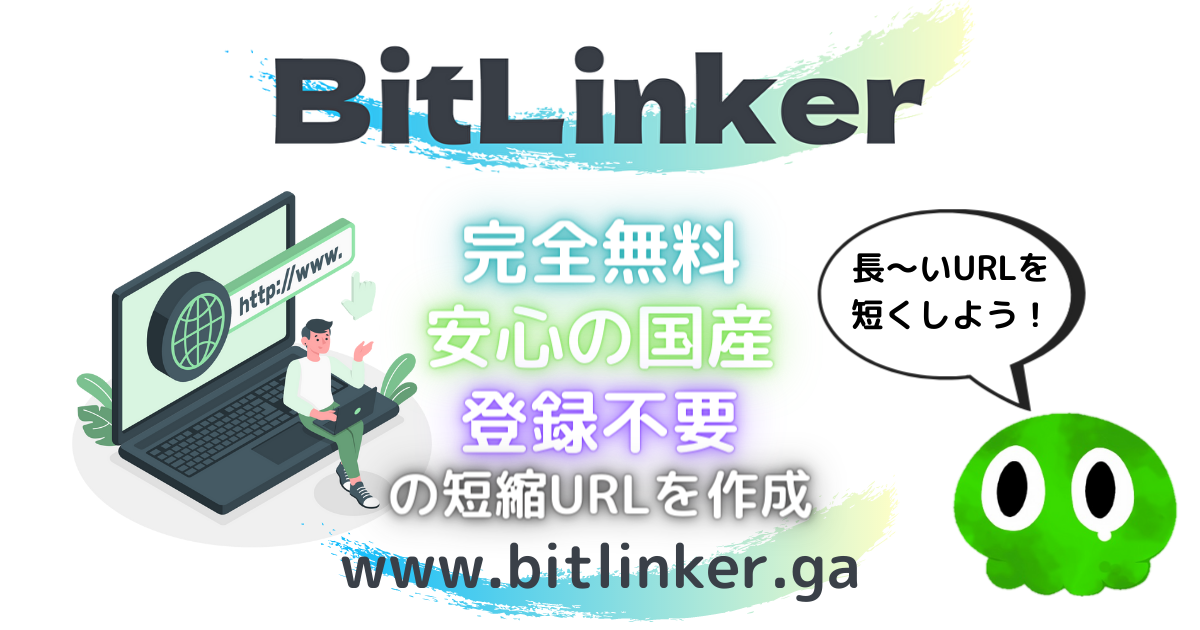
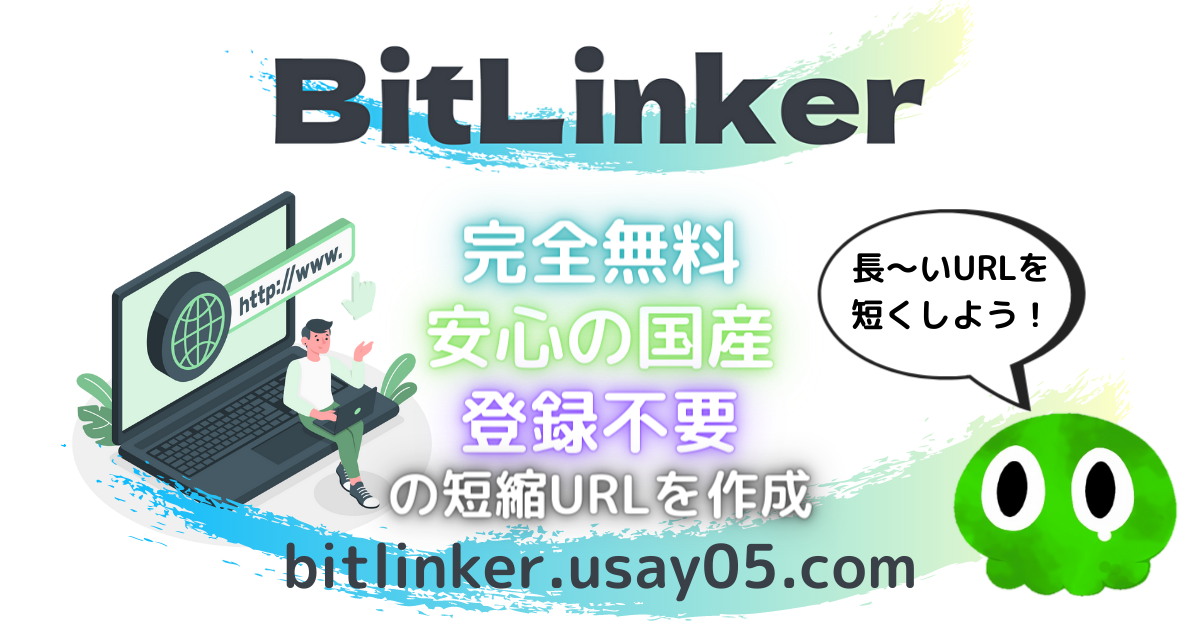
ドメイン・ディレクトリ構成の変更

Changed region(s): [[0.0925, 0.6032, 0.9558, 0.9952]]

diff --git a/main/deleted.php b/main/deleted.php
@@ -111,8 +111,8 @@
       $data_directory = '../data/'; //URLデータが保存してあるディレクトリ
       $data_file = $keyword.'.txt'; //URLデータファイル名
       $data_path = $data_directory.$data_file; //URLデータファイルのパス
-      $del_file = '../btln.ga/'.$keyword.'/index.php';
-      $del_directory = '../btln.ga/'.$keyword;
+      $del_file = '../shorten/'.$keyword.'/index.php';
+      $del_directory = '../shorten/'.$keyword;
 
       //ファイルデータ読み込み
       $data = file($data_path, FILE_IGNORE_NEW_LINES);
